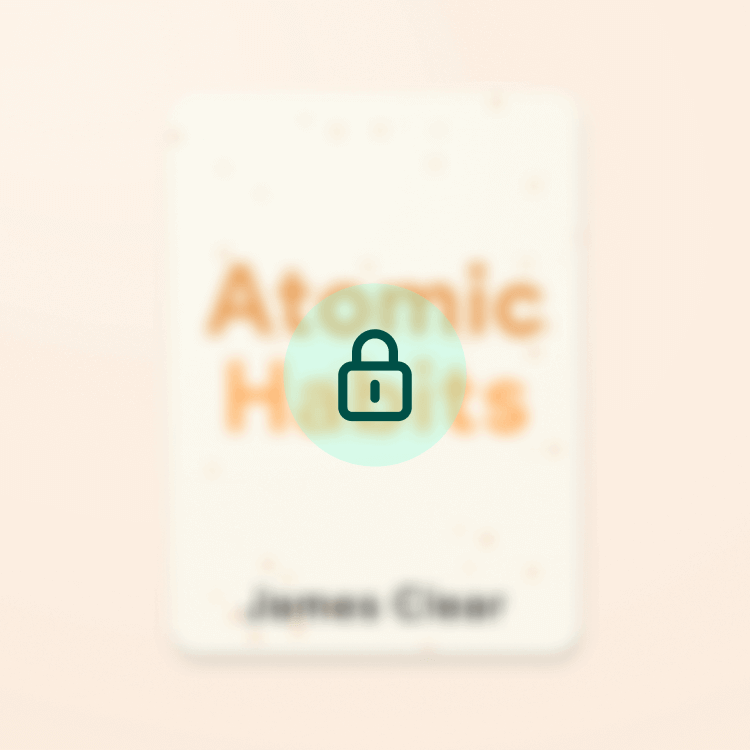
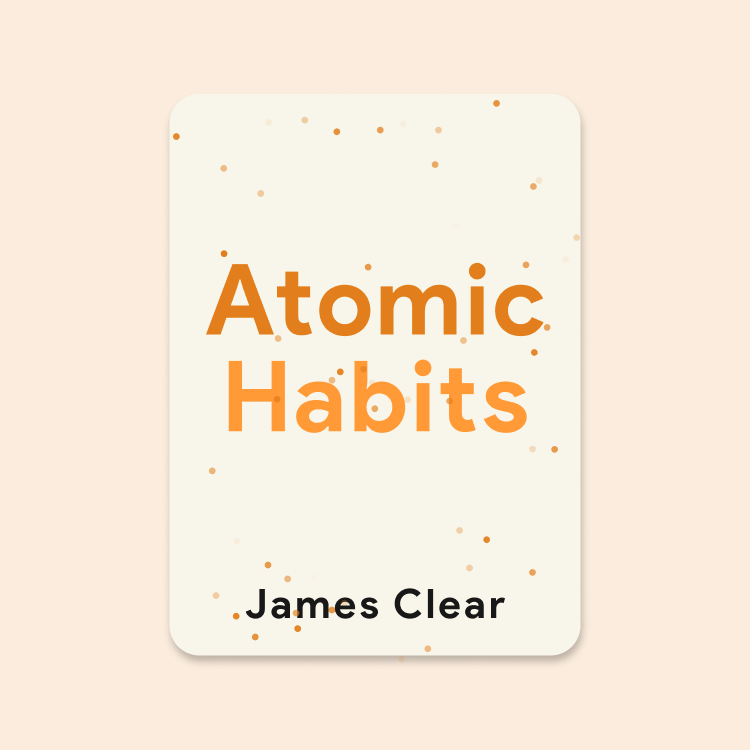
New Book notes (#115)

Changed region(s): [[0.2756, 0.3369, 0.735, 0.6431], [0.245, 0.7656, 0.7656, 0.8881], [0.7656, 0.3063, 0.7963, 0.3369]]

diff --git a/_books/atomic-habits.md b/_books/atomic-habits.md
@@ -7,6 +7,143 @@ date: '2021-06-24'
 description: An Easy & Proven Way to Build Good Habits & Break Bad Ones
 layout: book
 rating: 10
-type: premium
-external_url: https://www.buymeacoffee.com/vyshnav/atomic-habits-james-clear
 ---
+
+- Changes that seem small and unimportant at first will compound into remarkable results if you’re willing to stick with them for years.
+
+#### The Fundamentals - Why Tiny Changes Make a Big Difference
+
+- If you can get 1 percent better each day for one year, you’ll end up thirty-seven times better by the time you’re done. Conversely, if you get 1 percent worse each day for one year, you’ll decline nearly down to zero.
+- 1% worse every day for one year. 0.99365 = 00.03
+- 1% better every day for one year. 1.01365 = 37.78
+- Habits are the compound interest of self-improvement. The same way that money multiplies through compound interest, the effects of your habits multiply as you repeat them. They seem to make little difference on any given day and yet the impact they deliver over the months and years can be enormous. It is only when looking back two, five, or perhaps ten years later that the value of good habits and the cost of bad ones becomes strikingly apparent.
+- Breakthrough moments are often the result of many previous actions, which build up the potential required to unleash a major change.
+- All big things come from small beginnings. The seed of every habit is a single, tiny decision. But as that decision is repeated, a habit sprouts and grows stronger.
+- Goals are about the results you want to achieve. Systems are about the processes that lead to those results.
+- The implicit assumption behind any goal is this: “Once I reach my goal, then I’ll be happy.” The problem with a goals-first mentality is that you’re continually putting happiness off until the next milestone.
+- If you’re having trouble changing your habits, the problem isn’t you. The problem is your system. Bad habits repeat themselves again and again not because you don’t want to change, but because you have the wrong system for change.
+- Habits are a double-edged sword. They can work for you or against you, which is why understanding the details is essential.
+- Small changes often appear to make no difference until you cross a critical threshold. The most powerful outcomes of any compounding process are delayed. You need to be patient.
+- Once your pride gets involved, you’ll fight tooth and nail to maintain your habits.
+- The more you repeat a behavior, the more you reinforce the identity associated with that behavior.
+- The most effective way to change your habits is to focus not on what you want to achieve, but on who you wish to become.
+- Becoming the best version of yourself requires you to continuously edit your beliefs, and to upgrade and expand your identity.
+- A habit is a behavior that has been repeated enough times to become automatic. The process of habit formation begins with trial and error.
+- This is the feedback loop behind all human behavior: try, fail, learn, try differently. With practice, the useless movements fade away and the useful actions get reinforced. That’s a habit forming.
+- Habits are mental shortcuts learned from experience. In a sense, a habit is just a memory of the steps you previously followed to solve a problem in the past. Whenever the conditions are right, you can draw on this memory and automatically apply the same solution. The primary reason the brain remembers the past is to better predict what will work in the future.
+- The process of building a habit can be divided into four simple steps: cue, craving, response, and reward.
+- **How to Create a Good Habit**
+
+    - The 1st law (Cue): Make it obvious.
+    - The 2nd law (Craving): Make it attractive.
+    - The 3rd law (Response): Make it easy.
+    - The 4th law (Reward): Make it satisfying.
+
+- **How to Break a Bad Habit**
+
+    - Inversion of the 1st law (Cue): Make it invisible.
+    - Inversion of the 2nd law (Craving): Make it unattractive.
+    - Inversion of the 3rd law (Response): Make it difficult.
+    - Inversion of the 4th law (Reward): Make it unsatisfying.
+
+#### The 1st Law - Make It Obvious
+
+- With enough practice, your brain will pick up on the cues that predict certain outcomes without consciously thinking about it.
+- Once our habits become automatic, we stop paying attention to what we are doing.
+- The process of behavior change always starts with awareness. You need to be aware of your habits before you can change them.
+- Pointing-and-Calling raises your level of awareness from a nonconscious habit to a more conscious level by verbalizing your actions.
+- If you aren’t sure when to start your habit, try the first day of the week, month, or year. People are more likely to take action at those times because hope is usually higher. If we have hope, we have a reason to take action. A fresh start feels motivating.
+- The Diderot Effect states that obtaining a new possession often creates a spiral of consumption that leads to additional purchases.
+- Habit stacking is a special form of an implementation intention. Rather than pairing your new habit with a particular time and location, you pair it with a current habit.
+- Habit stacking works best when the cue is highly specific and immediately actionable.
+- Behavior is a function of the Person in their Environment, or B = f (P,E).
+- Small changes in context can lead to large changes in behavior over time.
+- A more reliable approach is to cut bad habits off at the source. One of the most practical ways to eliminate a bad habit is to reduce exposure to the cue that causes it.
+- People with high self-control tend to spend less time in tempting situations. It’s easier to avoid temptation than resist it.
+- Inversion of the 1st Law: Make It Invisible
+
+#### The 2nd Law - Make It Attractive
+
+- We need to make our habits attractive because it is the expectation of a rewarding experience that motivates us to act in the first place.
+- The more attractive an opportunity is, the more likely it is to become habit-forming.
+- Habits are a dopamine-driven feedback loop. When dopamine rises, so does our motivation to act.
+- It is the anticipation of a reward—not the fulfillment of it—that gets us to take action. The greater the anticipation, the greater the dopamine spike.
+- Temptation bundling is one way to make your habits more attractive. The strategy is to pair an action you want to do with an action you need to do.
+- We pick up habits from the people around us. We copy the way our parents handle arguments, the way our peers flirt with one another, the way our coworkers get results. When your friends smoke pot, you give it a try, too. When your wife has a habit of double-checking that the door is locked before going to bed, you pick it up as well.
+- We tend to adopt habits that are praised and approved of by our culture because we have a strong desire to fit in and belong to the tribe.
+- We tend to imitate the habits of three social groups: the close (family and friends), the many (the tribe), and the powerful (those with status and prestige).
+- One of the most effective things you can do to build better habits is to join a culture where (1) your desired behavior is the normal behavior and (2) you already have something in common with the group.
+- If a behavior can get us approval, respect, and praise, we find it attractive.
+- Reframing your habits to highlight their benefits rather than their drawbacks is a fast and lightweight way to reprogram your mind and make a habit seem more attractive.
+- Stressed at work? Take three deep breaths and smile. Sad about life? Three deep breaths and smile.
+- Highlight the benefits of avoiding a bad habit to make it seem unattractive.
+- Habits are attractive when we associate them with positive feelings and unattractive when we associate them with negative feelings. Create a motivation ritual by doing something you enjoy immediately before a difficult habit.
+- Create a motivation ritual. Do something you enjoy immediately before a difficult habit.
+- Inversion of the 2nd Law: Make It Unattractive
+
+#### The 3rd Law - Make It Easy
+
+- All habits follow a similar trajectory from effortful practice to automatic behavior, a process known as automaticity. Automaticity is the ability to perform a behavior without thinking about each step, which occurs when the nonconscious mind takes over.
+- The most effective form of learning is practice, not planning.
+- Focus on taking action, not being in motion.
+- Every habit is just an obstacle to getting what you really want.
+- Human behavior follows the Law of Least Effort. We will naturally gravitate toward the option that requires the least amount of work.
+- Create an environment where doing the right thing is as easy as possible.
+- Reduce the friction associated with good behaviors. When friction is low, habits are easy.
+- Increase the friction associated with bad behaviors. When friction is high, habits are difficult.
+- The idea is to make your habits as easy as possible to start. Anyone can meditate for one minute, read one page, or put one item of clothing away. And, as we have just discussed, this is a powerful strategy because once you’ve started doing the right thing, it is much easier to continue doing it. A new habit should not feel like a challenge. The actions that follow can be challenging, but the first two minutes should be easy.
+- The point is to master the habit of showing up. The truth is, a habit must be established before it can be improved. If you can’t learn the basic skill of showing up, then you have little hope of mastering the finer details. Instead of trying to engineer a perfect habit from the start, do the easy thing on a more consistent basis. You have to standardize before you can optimize.
+- It’s better to do less than you hoped than to do nothing at all.
+- The Two-Minute Rule states, “When you start a new habit, it should take less than two minutes to do.”
+- The best way to break a bad habit is to make it impractical to do. Increase the friction until you don’t even have the option to act.
+- The inversion of the 3rd Law of Behavior Change is make it difficult.
+- A commitment device is a choice you make in the present that locks in better behavior in the future.
+- Onetime choices—like buying a better mattress or enrolling in an automatic savings plan—are single actions that automate your future habits and deliver increasing returns over time.
+
+#### The 4th Law - Make It Satisfying
+
+- The vital thing in getting a habit to stick is to feel successful—even if it’s in a small way. The feeling of success is a signal that your habit paid off and that the work was worth the effort.
+- We are more likely to repeat a behavior when the experience is satisfying.
+- The human brain evolved to prioritize immediate rewards over delayed rewards.
+- The Cardinal Rule of Behavior Change: What is immediately rewarded is repeated. What is immediately punished is avoided.
+- The first three laws of behavior change—make it obvious, make it attractive, and make it easy—increase the odds that a behavior will be performed this time. The fourth law of behavior change—make it satisfying—increases the odds that a behavior will be repeated next time.
+- The most effective form of motivation is progress. When we get a signal that we are moving forward, we become more motivated to continue down that path. In this way, habit tracking can have an addictive effect on motivation. Each small win feeds your desire.
+- Missing once is an accident. Missing twice is the start of a new habit.
+- “The first rule of compounding: Never interrupt it unnecessarily.”
+- Never miss twice. If you miss one day, try to get back on track as quickly as possible.
+- Just because you can measure something doesn’t mean it’s the most important thing.
+- Pain is an effective teacher. If a failure is painful, it gets fixed. If a failure is relatively painless, it gets ignored. The more immediate and more costly a mistake is, the faster you will learn from it.
+- We repeat bad habits because they serve us in some way, and that makes them hard to abandon. The best way I know to overcome this predicament is to increase the speed of the punishment associated with the behavior. There can’t be a gap between the action and the consequences.
+- To make bad habits unsatisfying, your best option is to make them painful in the moment. Creating a habit contract is a straightforward way to do exactly that.
+- The inversion of the 4th Law of Behavior Change is make it unsatisfying.
+- We are less likely to repeat a bad habit if it is painful or unsatisfying.
+- An accountability partner can create an immediate cost to inaction. We care deeply about what others think of us, and we do not want others to have a lesser opinion of us.
+- A habit contract can be used to add a social cost to any behavior. It makes the costs of violating your promises public and painful.
+- Knowing that someone else is watching you can be a powerful motivator.
+
+#### Advanced Tactics
+
+- The mark of whether you are made for a task is not whether you love it but whether you can handle the pain of the task easier than most people. When are you enjoying yourself while other people are complaining? The work that hurts you less than it hurts others is the work you were made to do.
+- Flow is the mental state you enter when you are so focused on the task at hand that the rest of the world fades away. This blend of happiness and peak performance is what athletes and performers experience when they are “in the zone.” It is nearly impossible to experience a flow state and not find the task satisfying at least to some degree.
+- For just a moment, ignore what you have been taught. Ignore what society has told you. Ignore what others expect of you. Look inside yourself and ask, “What feels natural to me? When have I felt alive? When have I felt like the real me?” No internal judgments or people-pleasing. No second-guessing or self-criticism. Just feelings of engagement and enjoyment. Whenever you feel authentic and genuine, you are headed in the right direction.
+- Specialization is a powerful way to overcome the “accident” of bad genetics. The more you master a specific skill, the harder it becomes for others to compete with you.
+- The secret to maximizing your odds of success is to choose the right field of competition.
+- Pick the right habit and progress is easy. Pick the wrong habit and life is a struggle.
+- Habits are easier when they align with your natural abilities. Choose the habits that best suit you.
+- Genes do not eliminate the need for hard work. They clarify it. They tell us what to work hard on.
+- The Goldilocks Rule states that humans experience peak motivation when working on tasks that are right on the edge of their current abilities. Not too hard. Not too easy. Just right.
+- When you’re starting a new habit, it’s important to keep the behavior as easy as possible so you can stick with it even when conditions aren’t perfect.
+- Mastery requires practice. But the more you practice something, the more boring and routine it becomes. Once the beginner gains have been made and we learn what to expect, our interest starts to fade. Sometimes it happens even faster than that. All you have to do is hit the gym a few days in a row or publish a couple of blog posts on time and letting one day slip doesn’t feel like much. Things are going well. It’s easy to rationalize taking a day off because you’re in a good place.
+- The sweet spot of desire occurs at a 50/50 split between success and failure. Half of the time you get what you want. Half of the time you don’t. You need just enough “winning” to experience satisfaction and just enough “wanting” to experience desire. This is one of the benefits of following the Goldilocks Rule. If you’re already interested in a habit, working on challenges of just manageable difficulty is a good way to keep things interesting.
+- Variable rewards or not, no habit will stay interesting forever. At some point, everyone faces the same challenge on the journey of self-improvement: you have to fall in love with boredom.
+- The greatest threat to success is not failure but boredom.
+- Habits + Deliberate Practice = Mastery
+- Improvement is not just about learning habits, it’s also about fine-tuning them. Reflection and review ensures that you spend your time on the right things and make course corrections whenever necessary.
+- The tighter we cling to an identity, the harder it becomes to grow beyond it.
+- The upside of habits is that we can do things without thinking. The downside is that we stop paying attention to little errors.
+
+#### Conclusion: The Secret to Results That Last
+
+- Success is not a goal to reach or a finish line to cross. It is a system to improve, an endless process to refine.
+- “If you’re having trouble changing your habits, the problem isn’t you. The problem is your system. Bad habits repeat themselves again and again not because you don’t want to change, but because you have the wrong system for change.”
+- Being motivated and curious counts for more than being smart because it leads to action. Being smart will never deliver results on its own because it doesn’t get you to act. It is desire, not intelligence, that prompts behavior. As Naval Ravikant says, “The trick to doing anything is first cultivating a desire for it.”
